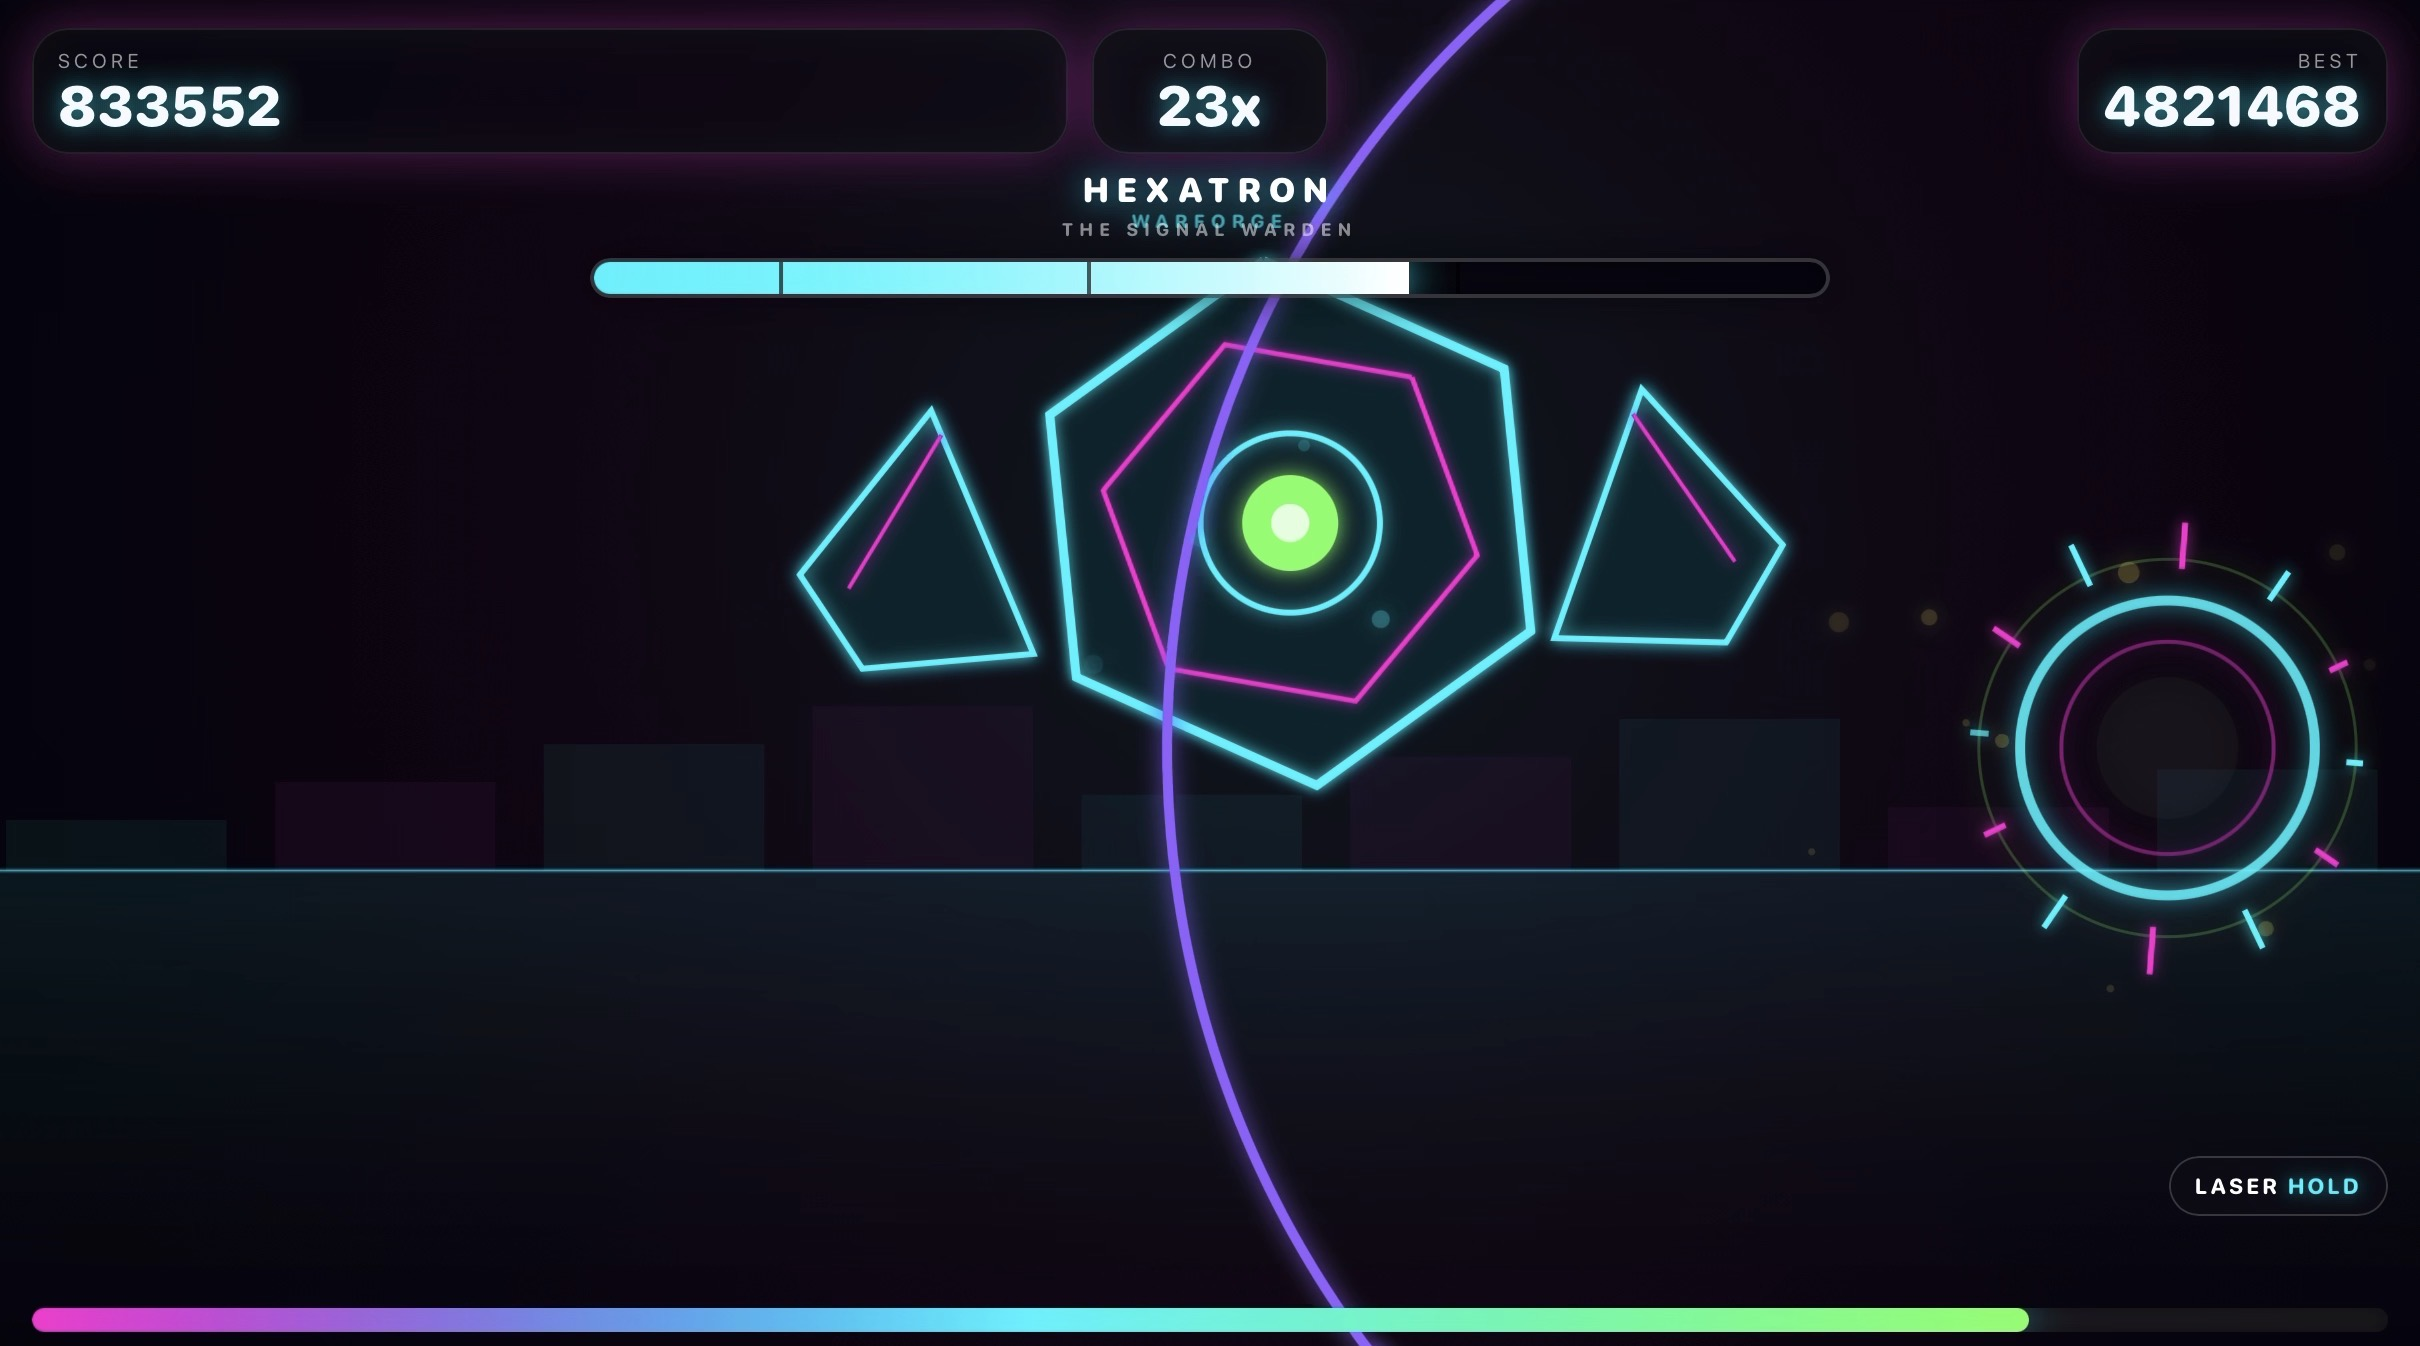
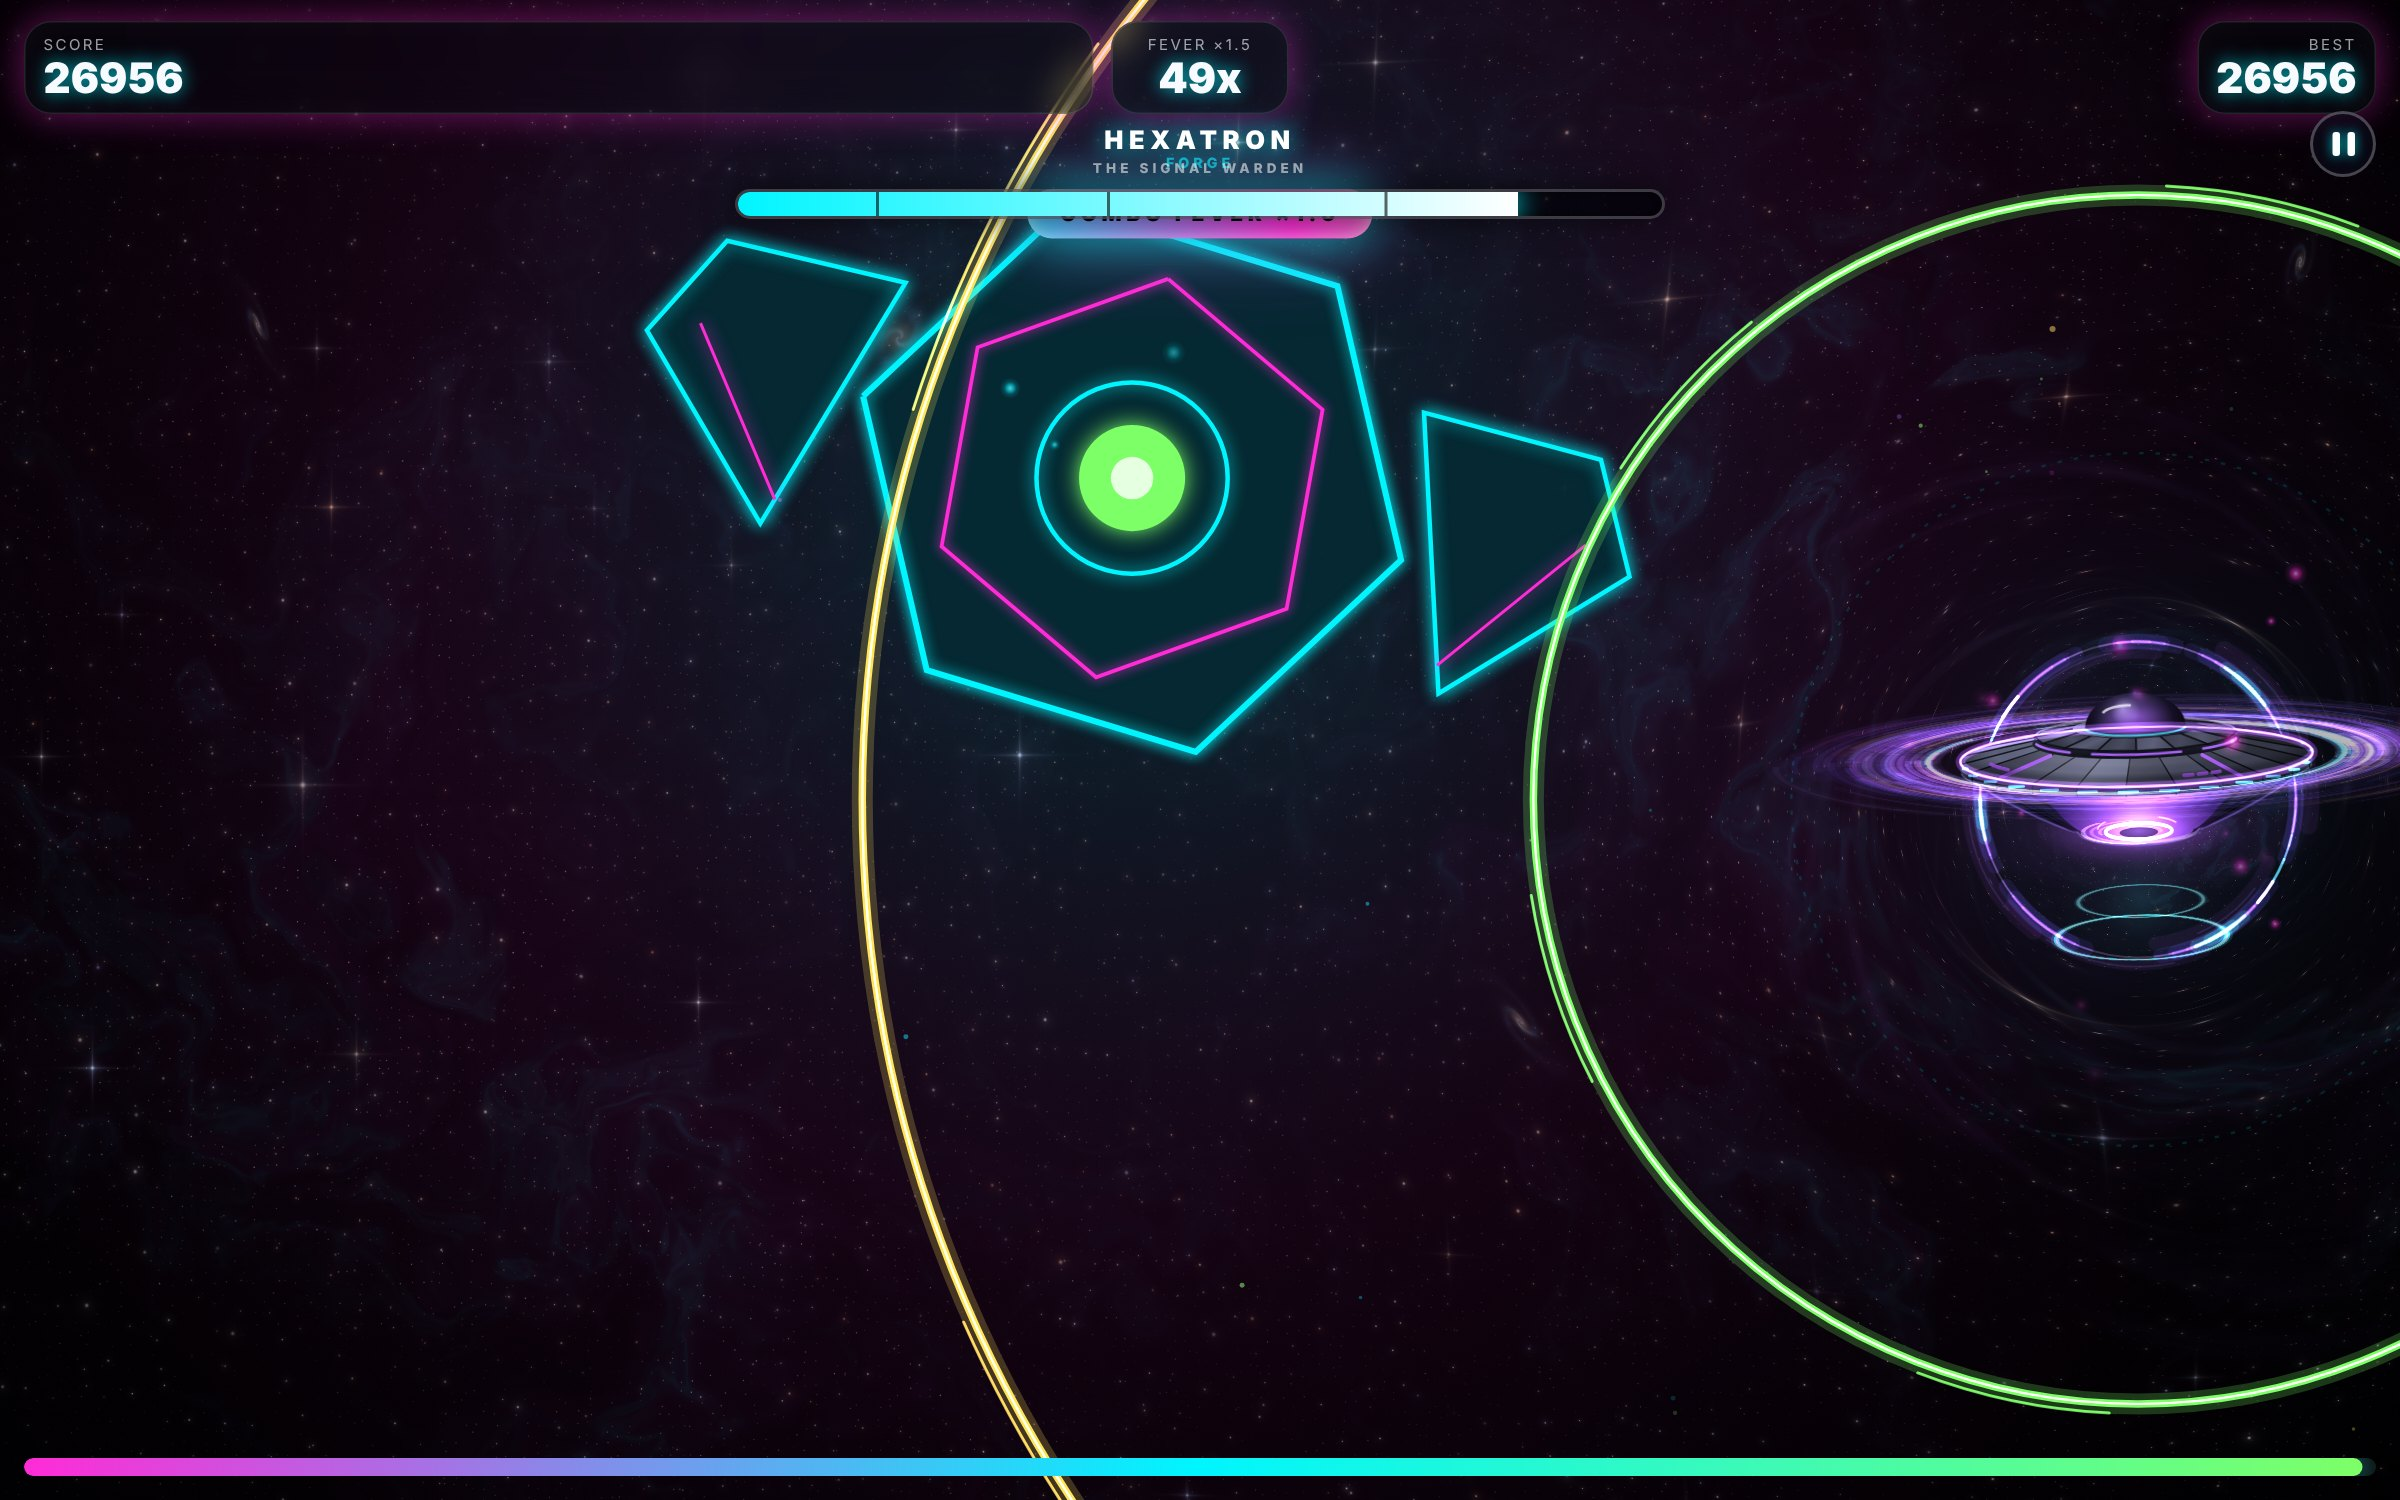
Refresh gallery screenshots with the UFO gravity craft (v4.1)
Recaptured from the live build (game main @ 526304e), full graphics, 1600x1000
@1.5x: Combo Fever, Hexatron boss arena, and an S+ run result. Same file names;
alt text updated for the craft.

Claude-Session: https://claude.ai/code/session_016MYJFHCzgZKqiWaX3FV5yn

Changed region(s): [[0.0, 0.0, 1.0, 1.0]]

diff --git a/index.html b/index.html
@@ -1027,7 +1027,7 @@ footer{
         <figure class="shot rise">
           <p class="shot__tag">01 · Combo Fever</p>
           <div class="shot__frame">
-            <img src="shots/ring-combo.jpg" alt="Rhythm Void gameplay showing glowing neon rings, a Perfect hit, Combo Fever, score, best score, and energy bar." width="1600" height="1000" loading="lazy" decoding="async">
+            <img src="shots/ring-combo.jpg" alt="Rhythm Void gameplay showing the UFO gravity craft absorbing a hit inside glowing neon rings, Combo Fever, score, best score, and energy bar." width="1600" height="1000" loading="lazy" decoding="async">
           </div>
           <figcaption>Build streaks, trigger Combo Fever, and keep the run alive with perfect timing.</figcaption>
         </figure>
@@ -1035,7 +1035,7 @@ footer{
         <figure class="shot rise">
           <p class="shot__tag">02 · Boss Arena</p>
           <div class="shot__frame">
-            <img src="shots/boss-arena.jpg" alt="Rhythm Void Hexatron boss fight showing the boss health bar, neon boss shapes, score, combo, best score, and ability button." width="1600" height="1000" loading="lazy" decoding="async">
+            <img src="shots/boss-arena.jpg" alt="Rhythm Void Hexatron boss fight showing the boss health bar, neon boss shapes, the UFO gravity craft, score, combo, and best score." width="1600" height="1000" loading="lazy" decoding="async">
           </div>
           <figcaption>Face bosses, read their patterns, and capture their cores.</figcaption>
         </figure>
